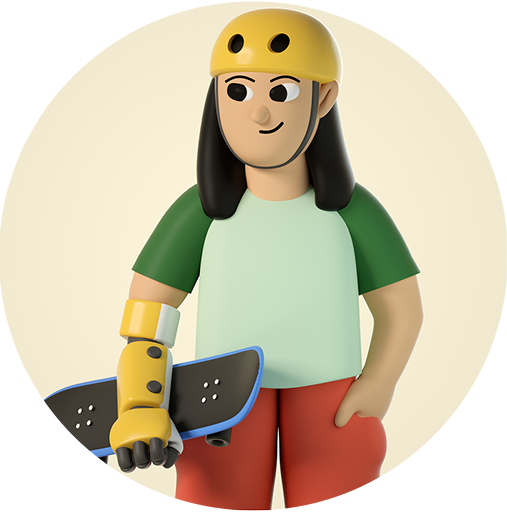
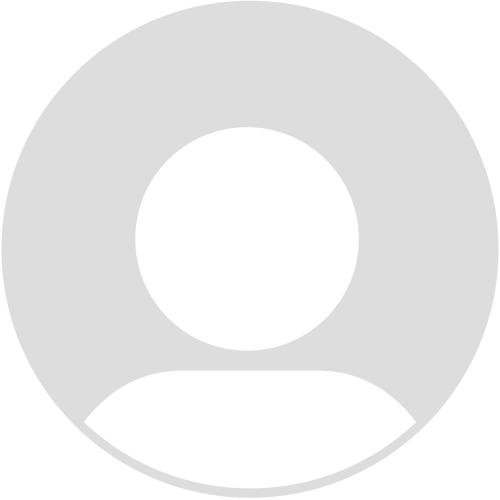
updates

diff --git a/frontend/src/pages/components/HomeownerDashboard/DashboardNav.jsx b/frontend/src/pages/components/HomeownerDashboard/DashboardNav.jsx
@@ -63,10 +63,10 @@ export default function DashboardNav({ onLogout, onProfile, accountId, classific
                 <img src={avatarImg} alt="Avatar" className="h-8 w-8 md:h-10 md:w-10 rounded-full" />
 
                 {/* Profile Section */}
-                <div className="relative">
+                <div className="relative -ml-1 md:-ml-6">
                     <button
                         onClick={() => setShowProfileDropdown(!showProfileDropdown)}
-                        className="flex items-center gap-2 md:gap-3 px-2 md:px-4 py-2 rounded-lg hover:bg-slate-100 transition"
+                        className="flex items-center gap-2 md:gap-3  px-2 md:px-4 py-2 rounded-lg hover:bg-slate-100 transition"
                     >
                         <div className="flex flex-col items-end hidden md:flex">
                             <p className="text-sm font-semibold text-slate-900">{accountId}</p>
@@ -91,6 +91,17 @@ export default function DashboardNav({ onLogout, onProfile, accountId, classific
                     {/* Dropdown Menu */}
                     {showProfileDropdown && (
                         <div className="absolute right-0 mt-2 w-48 bg-white rounded-lg shadow-lg border border-slate-200 z-50">
+                            {onProfile && (
+                                <button
+                                    onClick={() => {
+                                        setShowProfileDropdown(false);
+                                        onProfile();
+                                    }}
+                                    className="w-full text-left px-4 py-3 text-sm font-medium text-slate-700 hover:bg-slate-50 transition border-b border-slate-100"
+                                >
+                                    Profile
+                                </button>
+                            )}
                             <button
                                 onClick={() => {
                                     setShowProfileDropdown(false);

diff --git a/frontend/src/pages/HomeownerDashboard.jsx b/frontend/src/pages/HomeownerDashboard.jsx
@@ -153,6 +153,7 @@ export default function HomeownerDashboard() {
             {/* Header Navigation */}
             <DashboardNav
                 onLogout={handleLogout}
+                onProfile={() => navigate('/homeowner/profile', { state: { accountId, classification: account?.classification } })}
                 accountId={accountId}
                 classification={account?.classification || 'Loading...'}
                 onSidebarToggle={() => setSidebarOpen(!sidebarOpen)}
